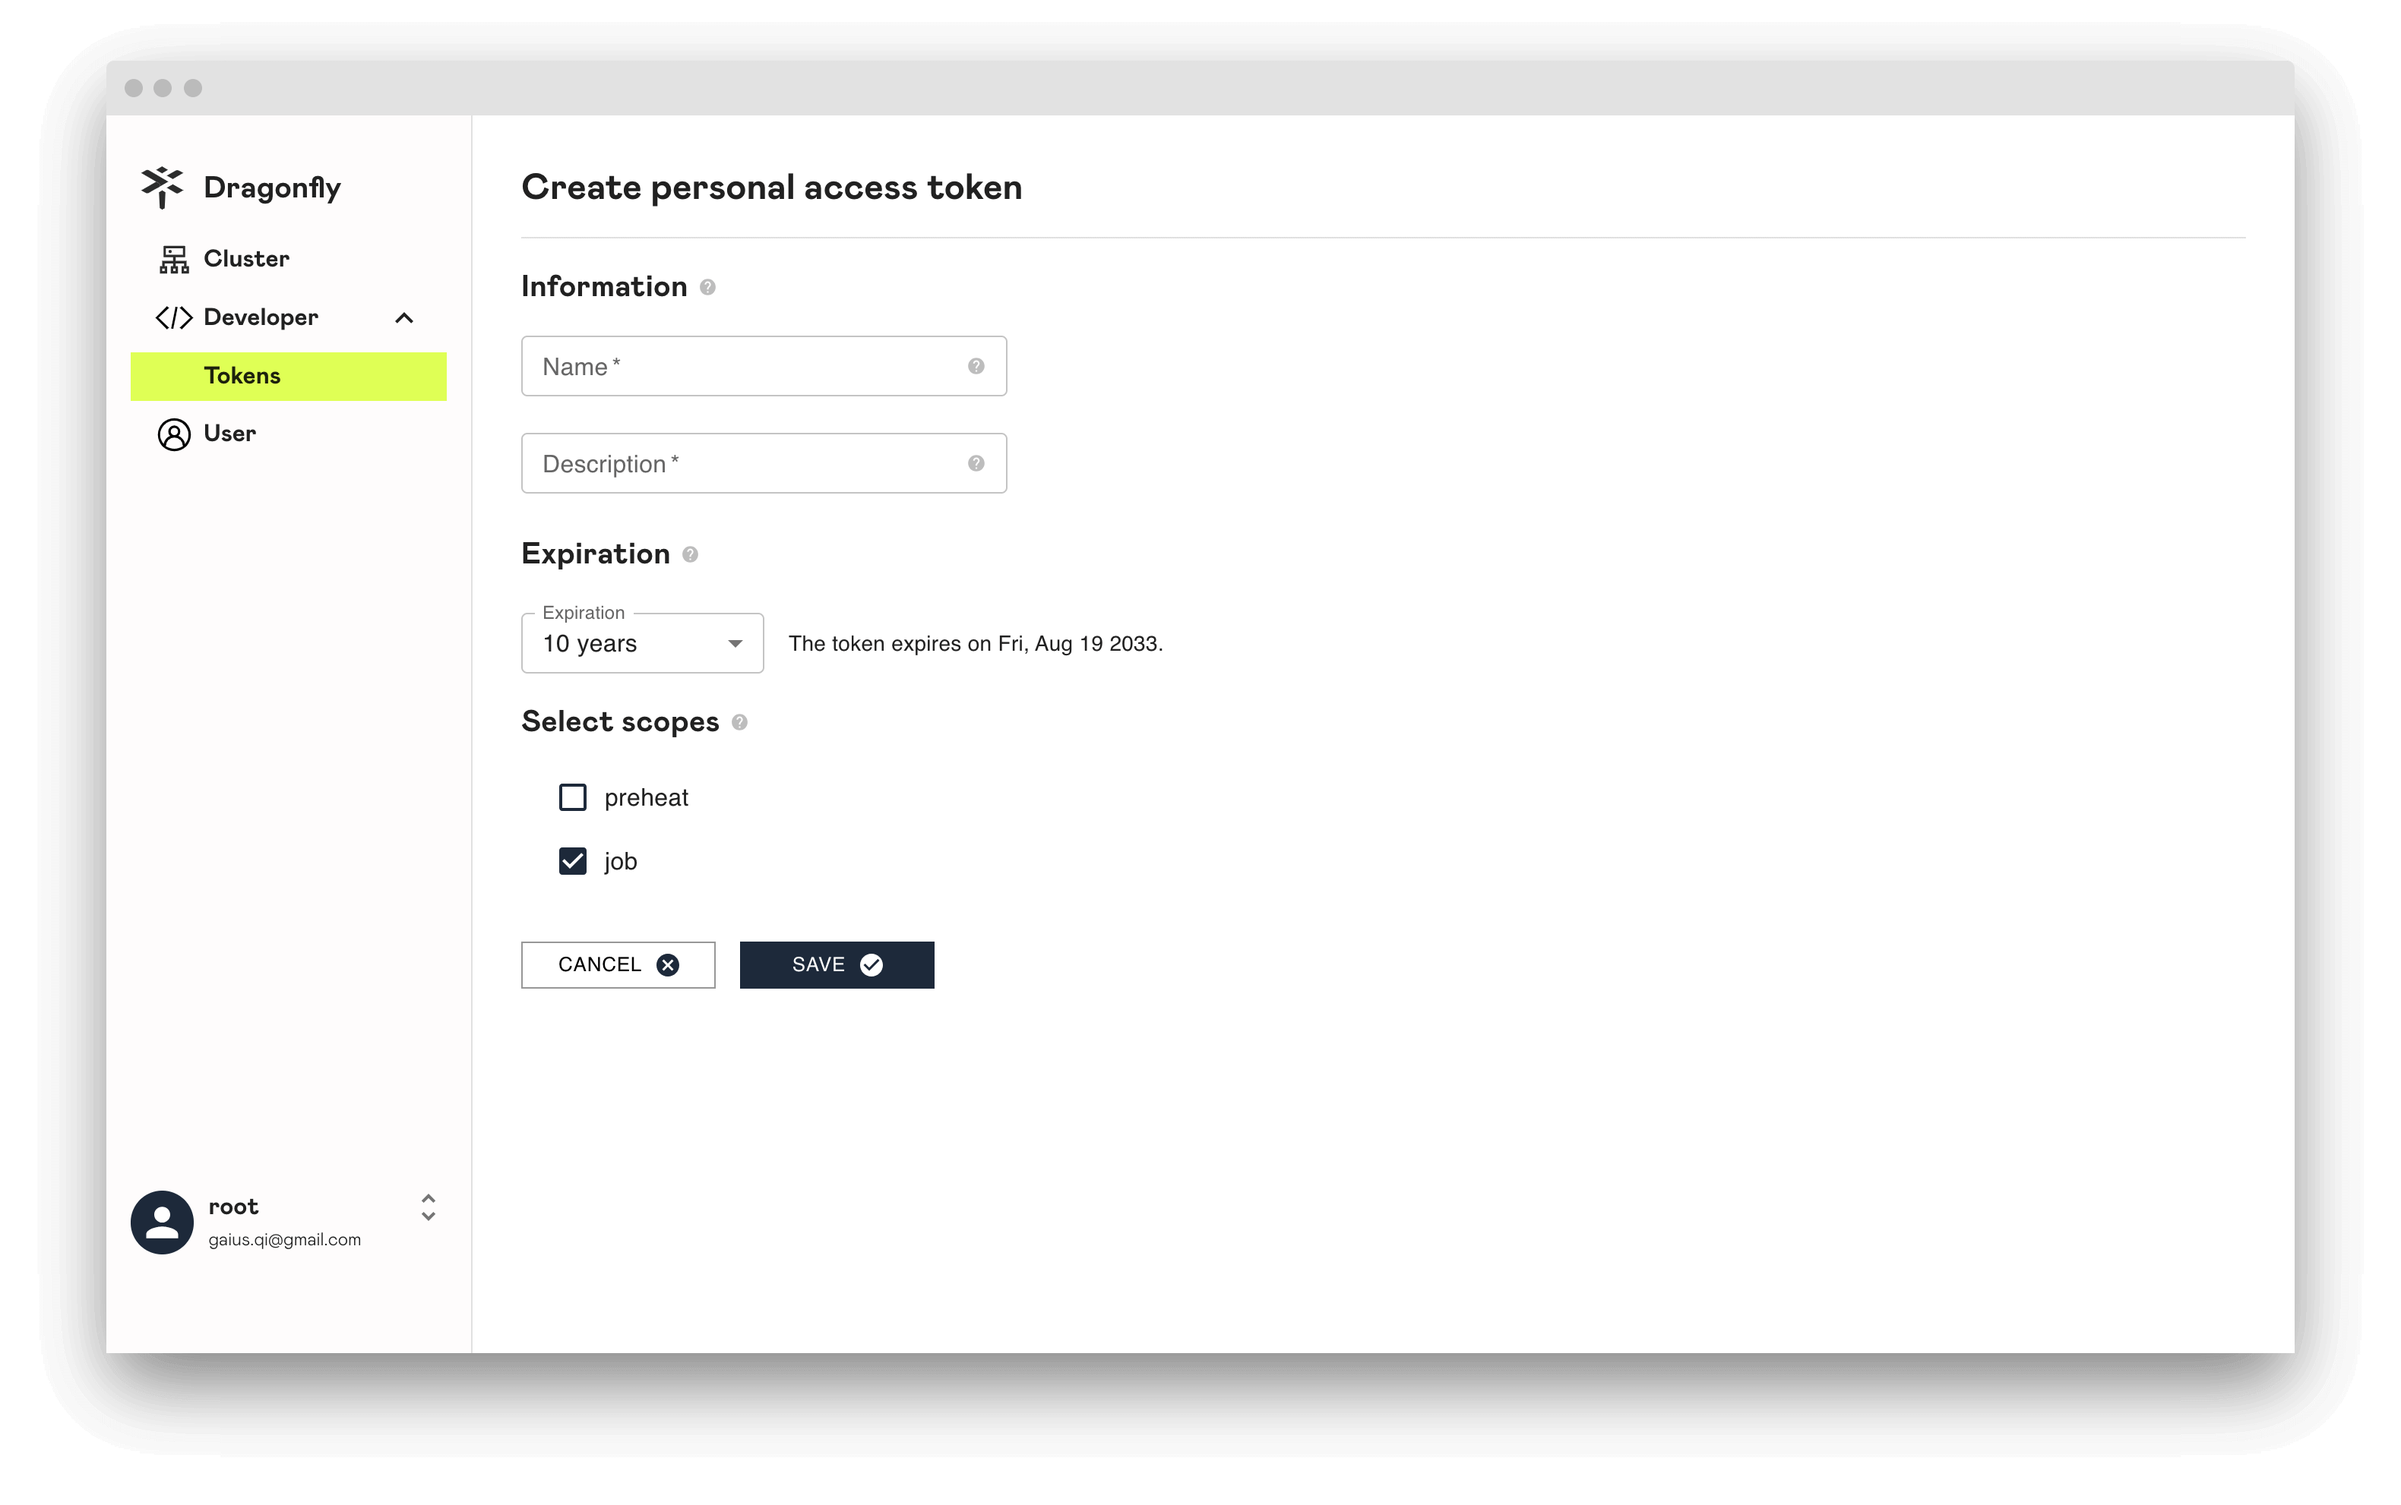
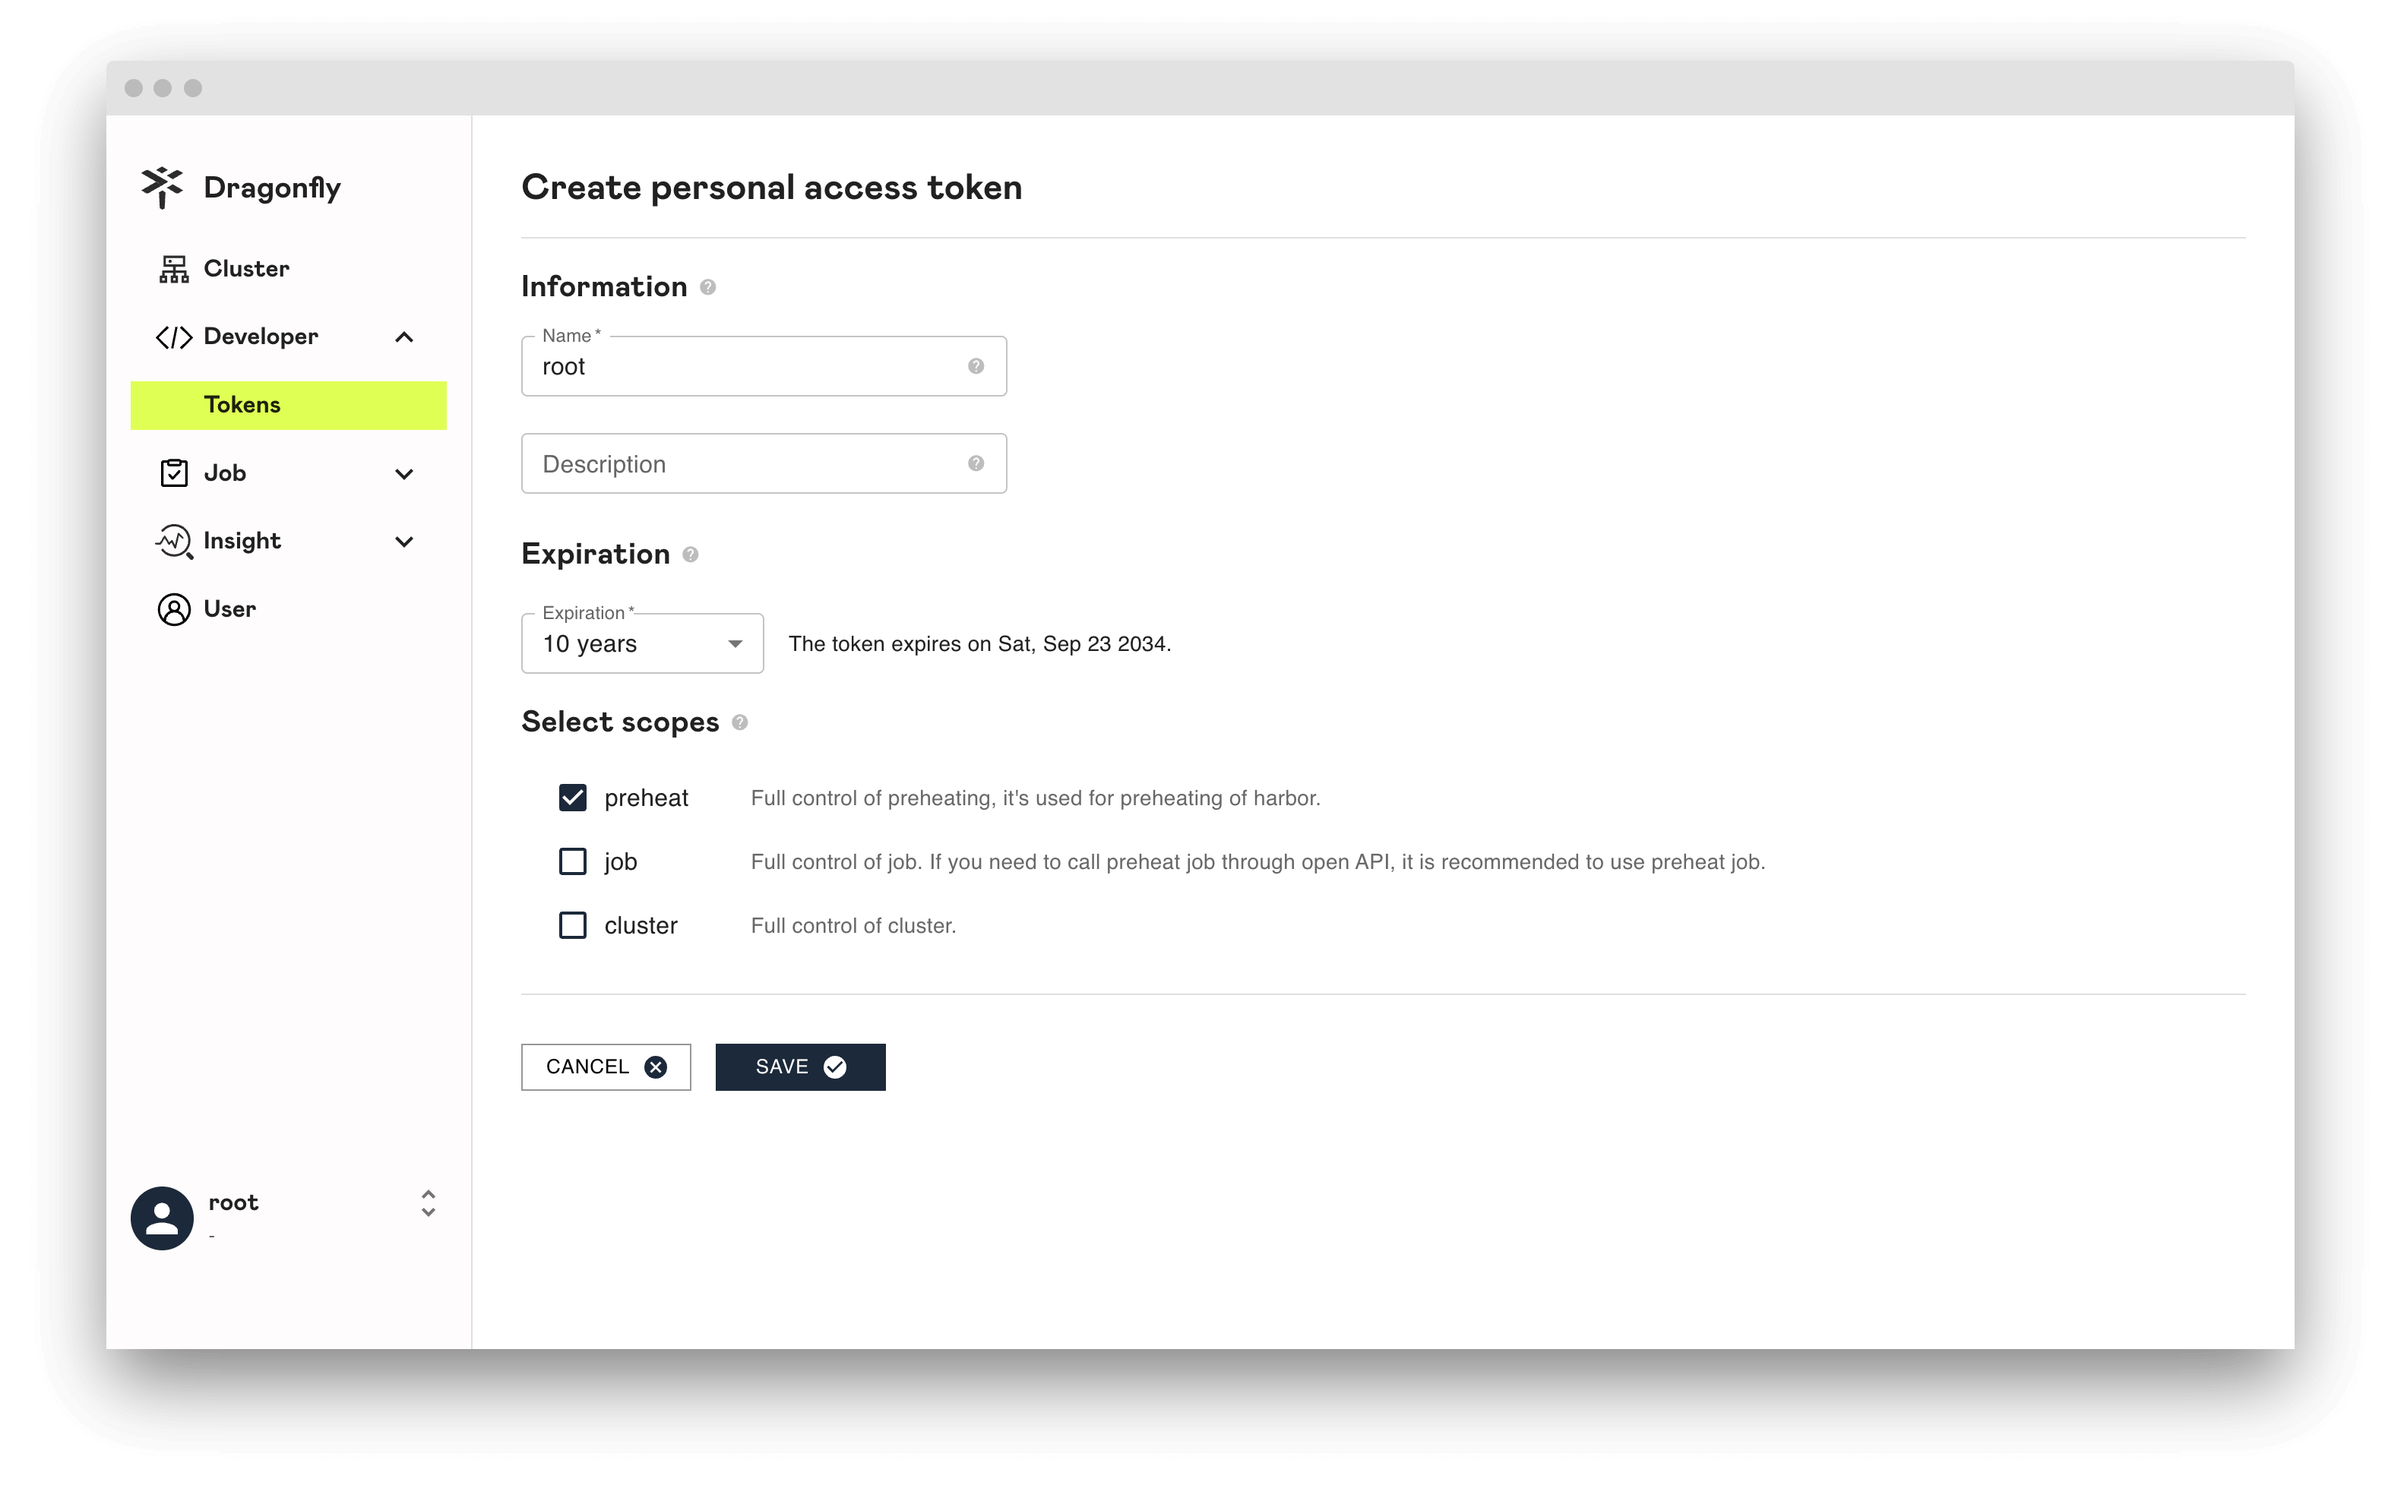
docs: preheat document add harbor preheat (#156)
* docs: preheat document add harbor preheat

diff --git a/docs/advanced-guides/preheat.md b/docs/advanced-guides/preheat.md
@@ -4,7 +4,8 @@ title: Preheat
 slug: /advanced-guides/preheat/
 ---
 
-There are two ways to preheat, one is to preheat through the Open API, and the other is to preheat through the console.
+This document will help you experience how to use Dragonfly's three preheat methods,
+namely Open API preheat, console preheat and harbor preheat.
 
 ## Open API
 
@@ -23,10 +24,23 @@ proxy:
   defaultFilter: 'Expires&Signature&ns'
 ```
 
-### Create Personal Access Token
+### Create personal access token
 
-Please create personal access Token before calling Open API, and select `job` for access scopes,
-refer to [personal-access-tokens](./personal-access-tokens.md).
+Click the `ADD PERSONAL ACCESS TOKENS` button to create personal access token.
+
+**Name**: Set your token a descriptive name.
+
+**Description**: Set a description.
+
+**Expiration**: Set your token an expiration.
+
+**Scopes**: Select the access permissions for the token.
+
+![create-token](../resource/advanced-guides/personal-access-tokens/create-token.png)
+
+Click `SAVE` and copy the token and store it. For your security, it doesn't display again.
+
+![copy-token](../resource/advanced-guides/personal-access-tokens/copy-token.png)
 
 ### Preheat image
 
@@ -218,7 +232,7 @@ If the status is `SUCCESS`, the preheating is successful.
 
 ## Console
 
-Use console for preheating, for file preheating.
+Use console for preheating image.
 
 ### Preheat
 
@@ -261,3 +275,84 @@ If the status is `SUCCESS`, the preheating is successful.
 If the status is `FAILURE`, the preheating is failure and an error log is displayed.
 
 ![failure-preheat](../resource/advanced-guides/preheat/failure-preheat.png)
+
+## Harbor
+
+Use harbor for preheating image, please refer to the
+[harbor](https://goharbor.io/docs/2.11.0/administration/p2p-preheat/) documentation for details.
+
+### Create personal access token {#harbor-create-personal-access-token}
+
+Click the `ADD PERSONAL ACCESS TOKENS` button to create personal access token.
+
+**Name**: Set your token a descriptive name.
+
+**Description**: Set your token a descriptive information.
+
+**Expiration**: Set your token an expiration.
+
+**Scopes**: Select the access permissions for the token.
+
+![create-token](../resource/advanced-guides/preheat/create-token.png)
+
+Click `SAVE` and copy the token and store it. For your security, it doesn't display again.
+
+![copy-token](../resource/advanced-guides/personal-access-tokens/copy-token.png)
+
+### Create instance
+
+Open the harbor UI, go to `Distributions` item under `Administration`
+and click the `NEW INSTANCE` button to create create instance.
+
+**Step 1:** Enter REST address of the Dragonfly Manager.
+
+**Step 2:** Auth Mode selects OAuth for authentication.
+
+**Step 3:** Enter personsal assess token.
+
+![create-instance](../resource/advanced-guides/preheat/create-instance.png)
+
+Click the `TEST CONNECTION` button to test the connectivity of the creating instance.
+If the connectivity testing is successful, click the `OK` button to save the creating instance.
+
+> Notice: Instance status must be `Healthy`.
+
+![instance](../resource/advanced-guides/preheat/instance.png)
+
+### Create P2P provider policy
+
+Go to `Projects` and open your project from the project list, and open the `P2P Preheat` tab.
+
+![p2p-preheat](../resource/advanced-guides/preheat/p2p-preheat.png)
+
+Click the `NEW POLICY` button to create P2P provider policy.
+
+**Step 1:** Select a pre-configured preheat provider instance as target.
+
+**Step 2:** By setting the Filter parameter, you can specify the image that needs to be preheated.
+
+**Step 3:** Select `Single Peer` or `All Peers` based on your needs.
+
+- **Single Peer**: Preheat to a seed peer.
+
+- **All Peers**: Preheat to each peer in the P2P cluster.
+
+![create-policy](../resource/advanced-guides/preheat/create-policy.png)
+
+### Executions Preheat policy
+
+Click the `EXECUTE` to execute the preheating task.
+
+![exectu-preheat](../resource/advanced-guides/preheat/exectu-preheat.png)
+
+If the status is SUCCESS, the preheating is successful.
+
+![executions](../resource/advanced-guides/preheat/executions.png)
+
+Click the executions `ID` to view the detailed information of the preheating task, and click the Logs icon to view the log.
+
+![executions-success](../resource/advanced-guides/preheat/executions-success.png)
+
+The expected output is as follows.
+
+![log](../resource/advanced-guides/preheat/log.png)

diff --git a/docs/operations/integrations/harbor.md b/docs/operations/integrations/harbor.md
@@ -14,4 +14,4 @@ First, the harbor address should be integrated into dragonfly based on the mirro
 
 Dragonfly 2.0 is compatible with dragonfly 1.0 integrated harbor preheat interface.
 
-Harbor preheat feature integrates dragonfly, please refer to [manager-preheat-providers](https://goharbor.io/docs/2.3.0/administration/p2p-preheat/manage-preheat-providers/).
+Harbor preheat feature integrates dragonfly, please refer to [harbor-preheat](https://d7y.io/docs/next/advanced-guides/preheat/#harbor).
